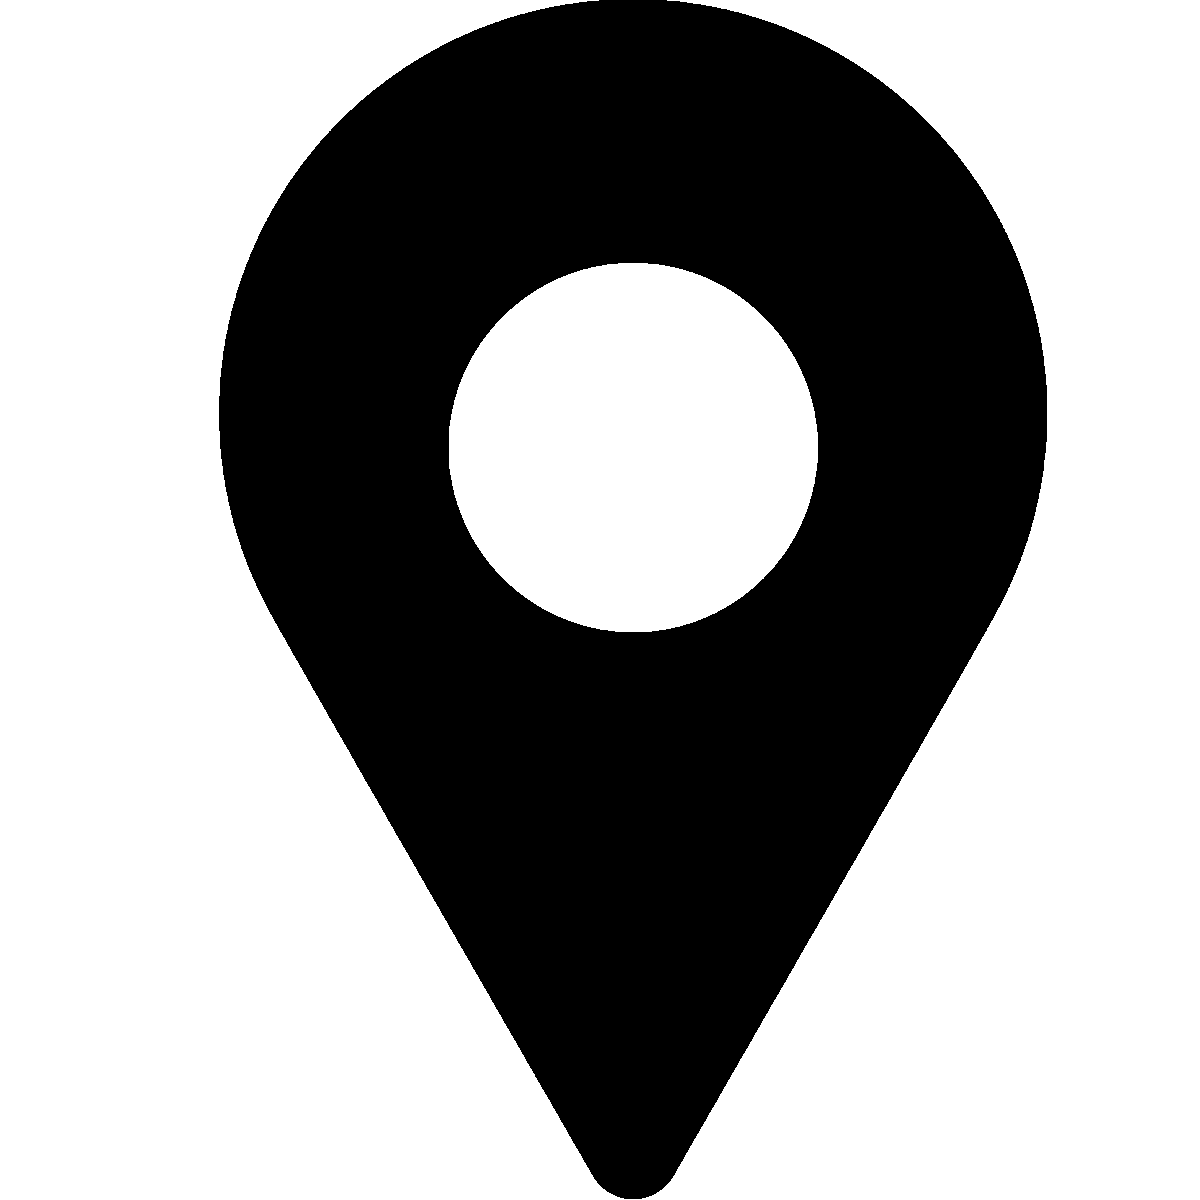
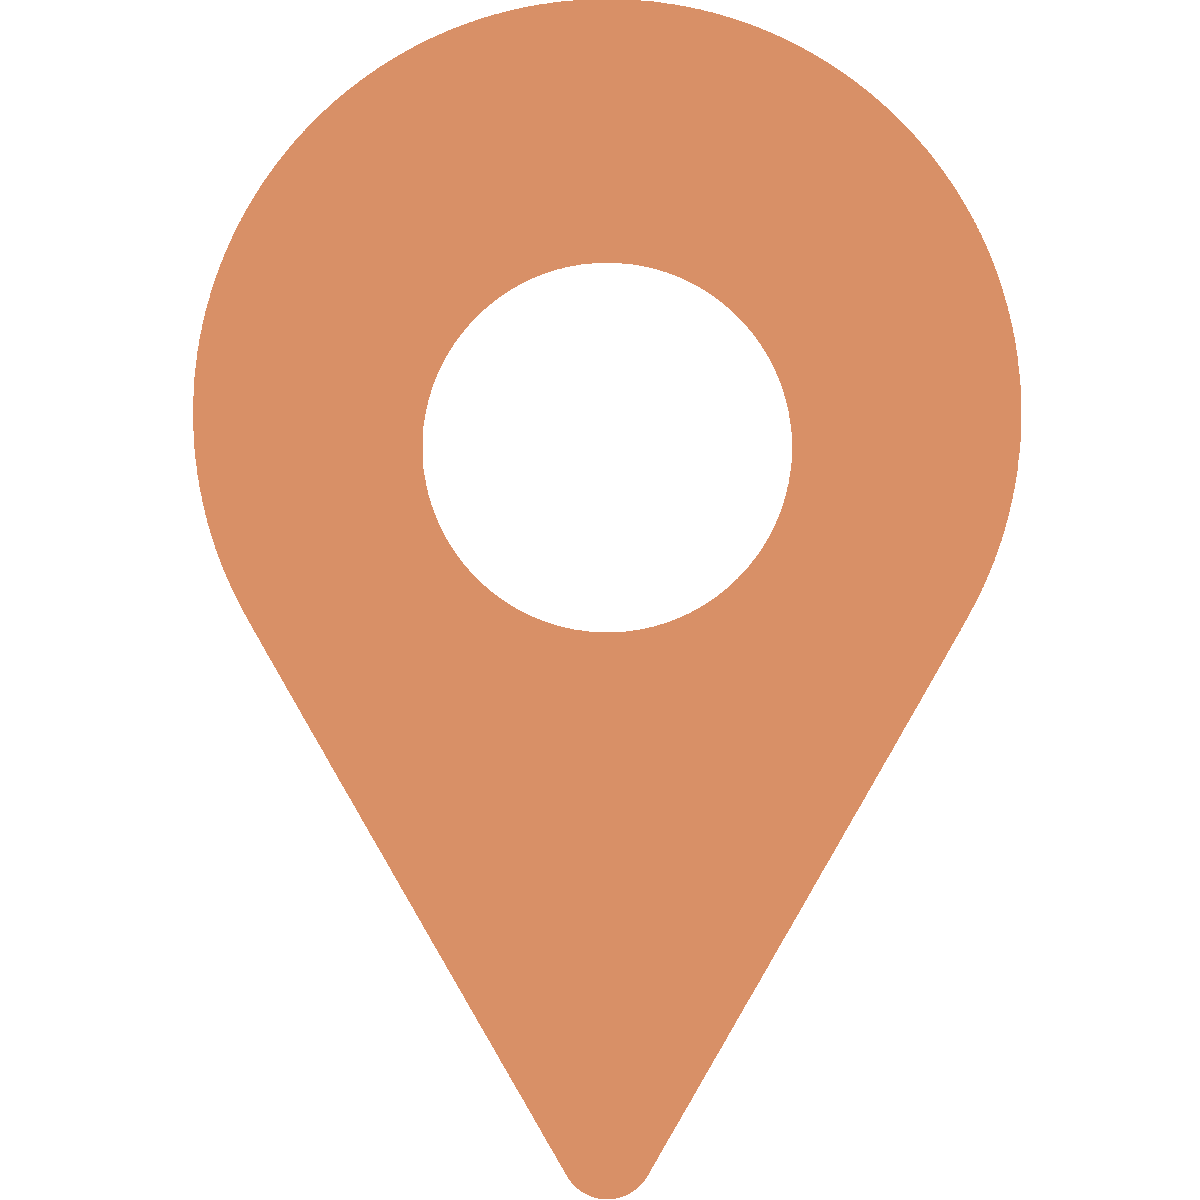
some color changes...don't know if worth keeping

diff --git a/main.css b/main.css
@@ -2,21 +2,34 @@
 	font-weight: bold;
 }
 
-.lobster-medium{
-	font-family: 'Lobster', cursive;
-	font-size: 50px;
-	line-height: 50px;
-}
 
 nav{
 	margin-bottom: 0px !important;
+	background-color: #D89067;
+	position: fixed;
 }
 
-.lobster-large{
+.lobster-large,.lobster-medium{
 	font-family: 'Lobster', cursive;
 	font-size: 90px;
 	line-height: 50px;
 	margin-bottom: 50px;
+	color:#d89067 !important;
+	-webkit-filter: grayscale(100%); 
+	filter: grayscale(100%);
+}
+
+.lobster-medium{
+	font-size: 50px;
+}
+
+.lobster-large:hover, .lobster-medium:hover{
+	-webkit-filter: none; 
+	filter: none;
+}
+
+.large{
+	font-size: 90px;
 }
 
 .pacifico {
@@ -33,7 +46,7 @@ nav{
 }
 
 body{
-	margin: 0 5%;
+	padding: 0 5%;
 }
 
 .search{
@@ -63,17 +76,16 @@ body{
 	width: 49%;
 	vertical-align: top;
 	text-align: center;
-	color: #666;
-//	-webkit-filter: grayscale(100%); if we choose a color scheme this would be nice
-//	filter: grayscale(100%);
+	color: #d89067 !important;
+	-webkit-filter: grayscale(100%); 
+	filter: grayscale(100%);
 }
 
 .half-page:hover{
-	color: #555;
 	cursor: pointer;
-	background-color: #eee;
-//	-webkit-filter: none;
-//	filter: none;
+	background-color: #F5F4F0;
+	-webkit-filter: none;
+	filter: none;
 }
 
 .main-icon {

diff --git a/index.html b/index.html
@@ -44,12 +44,12 @@
 <a href="video.html">
 <div class="half-page">
 	<img class="main-icon" src="experience-icon.png" />
-	<div class="lobster-large">Experience</div>
+	<div class="large">Experience</div>
 </div></a>
 <a href="map.html">
 <div class="half-page">
 	<img class="main-icon" src="location-icon.png" />
-	<div class="lobster-large">Location</div>
+	<div class="large">Location</div>
 </div></a>
 </div>
 

diff --git a/titlebar.js b/titlebar.js
@@ -17,7 +17,6 @@ $(document).ready(function(){
 	//set up autocomplete
 	$("#titlebar-search").autocomplete({
 		source : users,
-		minLength : 2,
 		select : function(event, ui){
 			window.location.href = "profile.html?profile="+profNameToUser[ui.item.value];
 		}
